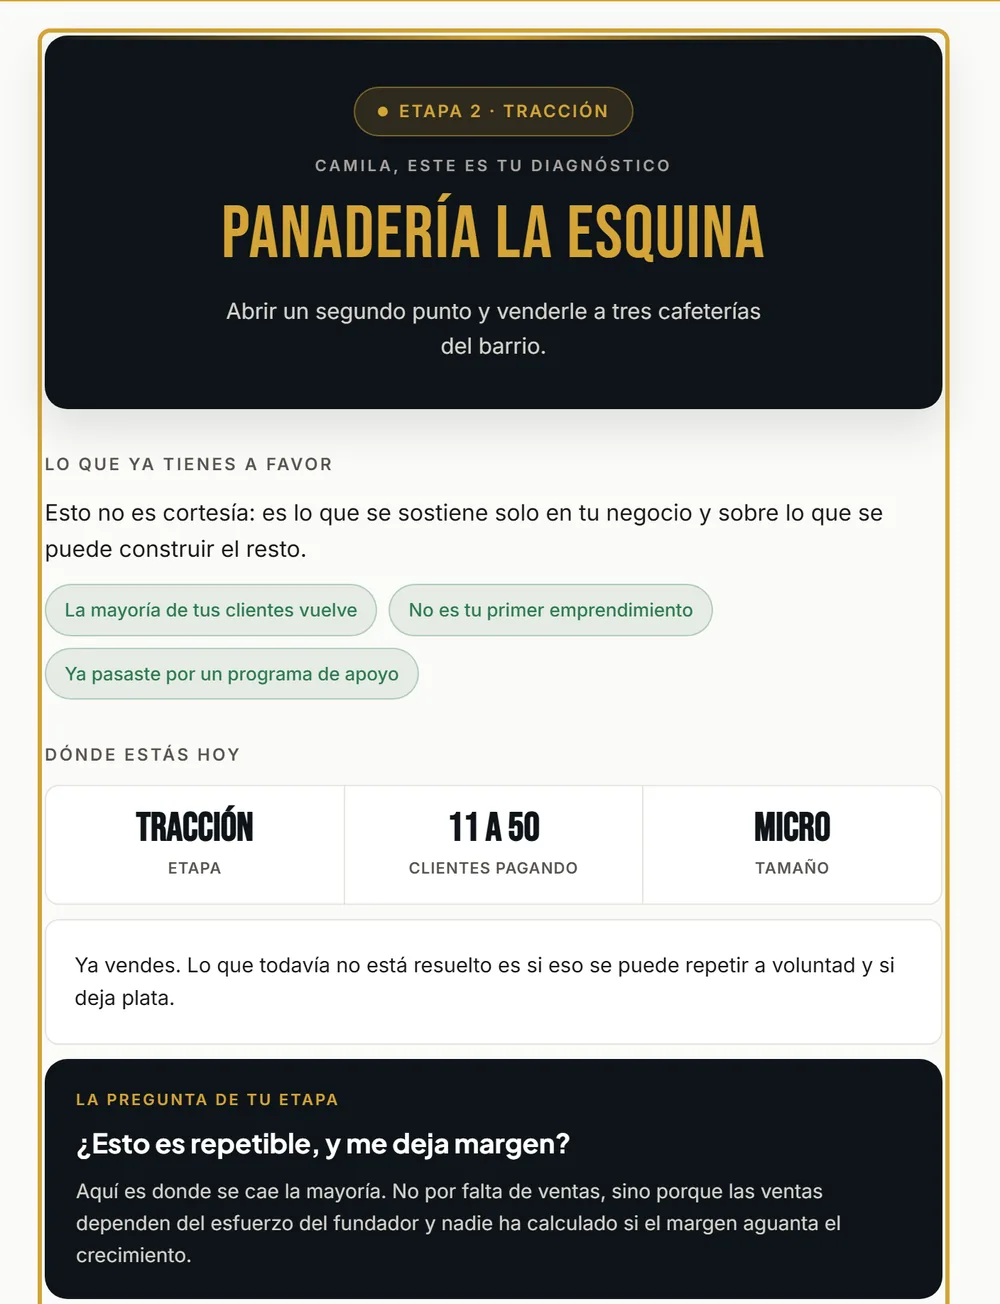
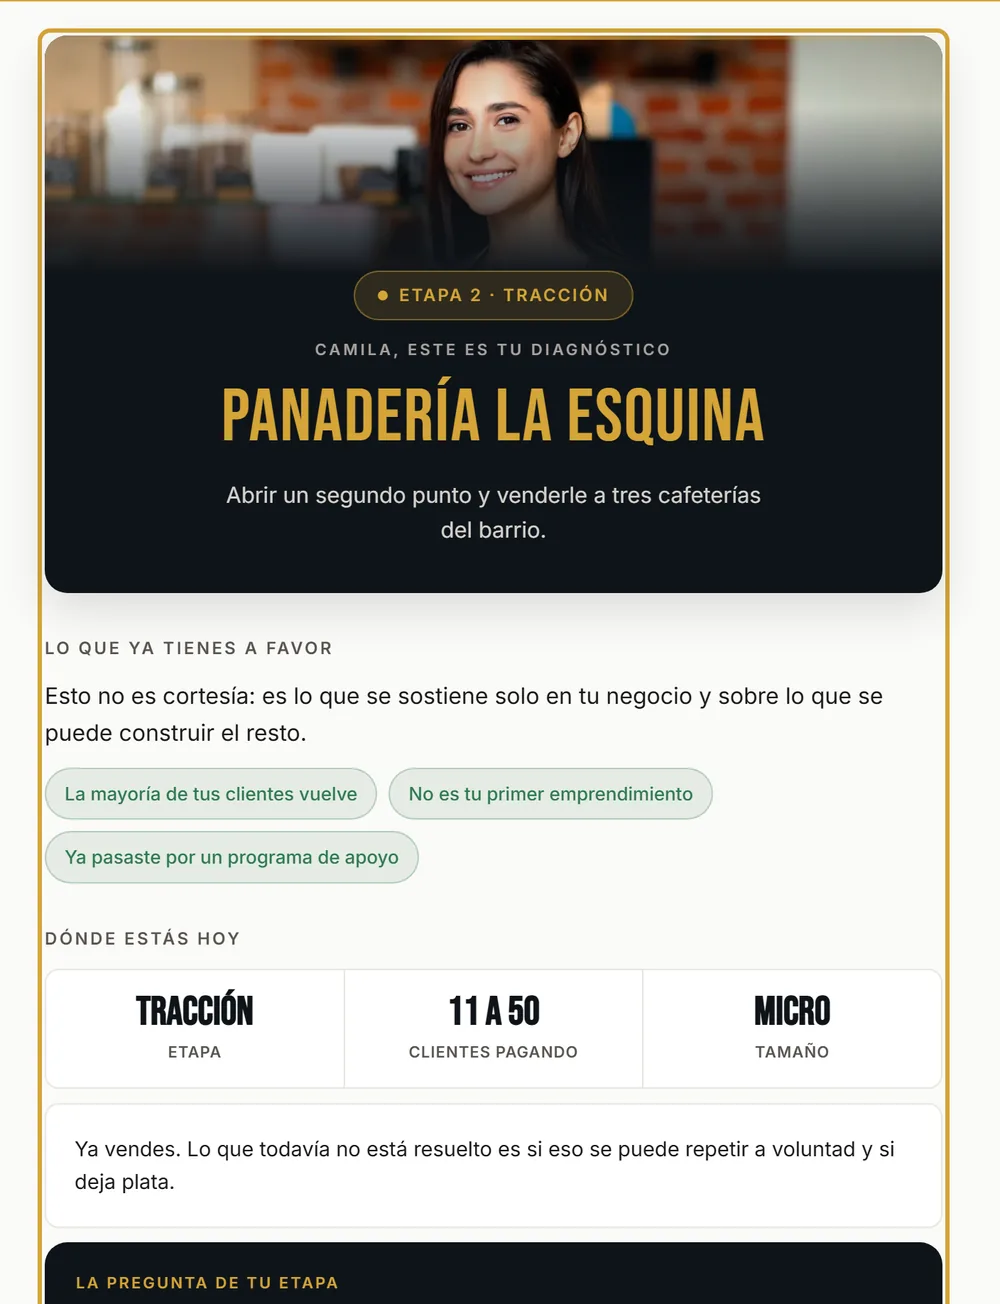
El diagnostico va antes de los dos caminos
Jorge lo reordeno y tiene razon: no se elige camino sin saber de donde se
parte. La seccion abre ahora con el diagnostico y despues ofrece las dos
rutas.

El copy se ajusta al orden nuevo: el diagnostico apunta hacia adelante —«lo
que viene despues no sirve si no sabemos de donde partes»— y el compromiso
arranca reconociendo que la persona ya lo hizo.

De paso, la captura de ejemplo se rehizo. Mostraba el informe sin la franja
de fotografia que se le acaba de poner, asi que prometia una cosa y llegaba
otra.

diff --git a/src/app/(public)/emprendimiento/page.tsx b/src/app/(public)/emprendimiento/page.tsx
@@ -15,8 +15,7 @@ import { pilarDeEje } from '@/lib/strategy';
 /**
  * Emprendimiento tiene página propia, como el torneo, y por eso `[slug]` la
  * excluye de sus rutas. Dejó de caber en la plantilla genérica de los ejes el
- * día que tuvo dos rutas desplegables, un paquete de ocho entregables y el
- * diagnóstico como cierre.
+ * día que tuvo diagnóstico propio, dos rutas y un paquete de ocho entregables.
  *
  * Se quitaron «Servicios y enfoques» y «El proceso», que decían en genérico
  * —mentoría, red, ruta de validación; postular, construir, lanzar— lo que las
@@ -79,8 +78,68 @@ export default function EmprendimientoPage() {
           </div>
         </section>
 
+        {/* EL DIAGNÓSTICO
+            Va primero, antes de las dos rutas: Jorge lo pidió así y tiene
+            razón —no se elige camino sin saber de dónde se parte—. Queda en
+            oscuro a propósito, porque la captura del informe es una imagen
+            clara y sobre crema se perdería; el panel es #141a22, no el casi
+            negro de antes, para que no se caiga a un pozo. */}
+        <section className="grain relative overflow-hidden bg-[#141a22]/80">
+          <div className="relative mx-auto max-w-7xl px-6 py-24 lg:px-8">
+            <div className="grid gap-12 lg:grid-cols-[1fr_0.85fr] lg:items-center">
+              <div>
+                <p className="font-mono text-caption uppercase tracking-[0.3em] text-gold">
+                  {DIAGNOSTICO_BLOQUE.kicker}
+                </p>
+                <h2 className="mt-4 font-serif text-display-lg font-bold leading-[1.05] text-neutral-50">
+                  {DIAGNOSTICO_BLOQUE.pregunta}
+                </h2>
+                <p className="mt-6 max-w-xl text-lg text-neutral-300">
+                  {DIAGNOSTICO_BLOQUE.cuerpo}
+                </p>
+                <p className="mt-5 max-w-xl border-l-2 border-gold/50 pl-5 text-neutral-300">
+                  {DIAGNOSTICO_BLOQUE.entrega}
+                </p>
+                <Link
+                  href={hrefDeEje(DIAGNOSTICO)}
+                  className="group mt-9 inline-flex items-center gap-2 rounded-full bg-gradient-to-r from-amarillo to-naranja px-7 py-3.5 text-sm font-bold text-carbon shadow-[0_12px_40px_rgba(232,114,44,0.4)] transition-all duration-200 ease-managers hover:-translate-y-0.5"
+                >
+                  <span className="text-left">
+                    ¿Tienes un emprendimiento?{' '}
+                    <span className="whitespace-nowrap">Haz el diagnóstico</span>
+                  </span>
+                  <ArrowRight
+                    size={18}
+                    aria-hidden
+                    className="transition-transform duration-200 ease-managers group-hover:translate-x-1"
+                  />
+                </Link>
+              </div>
+
+              {/* Así se ve lo que recibe. Es una captura del diagnóstico real,
+                  con un emprendimiento de ejemplo: prometer con una ilustración
+                  genérica lo que llega como informe sería vender otra cosa. */}
+              <figure className="m-0">
+                <div className="overflow-hidden rounded-2xl border border-gold/25 bg-cream p-3 shadow-[0_28px_70px_rgba(0,0,0,0.45)]">
+                  <Image
+                    src={asset('/fotos/diagnostico-ejemplo.webp')}
+                    alt="Ejemplo del diagnóstico que se entrega: la etapa del emprendimiento, lo que ya tiene a favor, el mapa de madurez por frentes y los retos priorizados."
+                    width={1000}
+                    height={1304}
+                    sizes="(max-width: 1024px) 100vw, 440px"
+                    className="h-auto w-full rounded-xl"
+                  />
+                </div>
+                <figcaption className="mt-4 text-center text-sm text-neutral-500">
+                  Un ejemplo real del informe. El tuyo sale con tus respuestas, al terminar.
+                </figcaption>
+              </figure>
+            </div>
+          </div>
+        </section>
+
         {/* COMPROMISO + LAS DOS RUTAS
-            En crema, no en negro. El sitio es oscuro de punta a punta y esta
+            Después del diagnóstico, no antes. En crema, no en negro. El sitio es oscuro de punta a punta y esta
             sección —que es la que vende— quedaba «como un funeral», en palabras
             de Jorge. El crema ya estaba en el sistema de diseño y en la
             plantilla de presentaciones de la fundación, sin usarse aquí. */}
@@ -155,64 +214,6 @@ export default function EmprendimientoPage() {
                   </article>
                 );
               })}
-            </div>
-          </div>
-        </section>
-
-        {/* EL DIAGNÓSTICO
-            Vuelve al oscuro a propósito: la captura del informe es una imagen
-            clara y sobre crema se perdería. El panel es #141a22, no el casi
-            negro de antes, para que la sección no se caiga a un pozo. */}
-        <section className="grain relative overflow-hidden bg-[#141a22]/80">
-          <div className="relative mx-auto max-w-7xl px-6 py-24 lg:px-8">
-            <div className="grid gap-12 lg:grid-cols-[1fr_0.85fr] lg:items-center">
-              <div>
-                <p className="font-mono text-caption uppercase tracking-[0.3em] text-gold">
-                  {DIAGNOSTICO_BLOQUE.kicker}
-                </p>
-                <h2 className="mt-4 font-serif text-display-lg font-bold leading-[1.05] text-neutral-50">
-                  {DIAGNOSTICO_BLOQUE.pregunta}
-                </h2>
-                <p className="mt-6 max-w-xl text-lg text-neutral-300">
-                  {DIAGNOSTICO_BLOQUE.cuerpo}
-                </p>
-                <p className="mt-5 max-w-xl border-l-2 border-gold/50 pl-5 text-neutral-300">
-                  {DIAGNOSTICO_BLOQUE.entrega}
-                </p>
-                <Link
-                  href={hrefDeEje(DIAGNOSTICO)}
-                  className="group mt-9 inline-flex items-center gap-2 rounded-full bg-gradient-to-r from-amarillo to-naranja px-7 py-3.5 text-sm font-bold text-carbon shadow-[0_12px_40px_rgba(232,114,44,0.4)] transition-all duration-200 ease-managers hover:-translate-y-0.5"
-                >
-                  <span className="text-left">
-                    ¿Tienes un emprendimiento?{' '}
-                    <span className="whitespace-nowrap">Haz el diagnóstico</span>
-                  </span>
-                  <ArrowRight
-                    size={18}
-                    aria-hidden
-                    className="transition-transform duration-200 ease-managers group-hover:translate-x-1"
-                  />
-                </Link>
-              </div>
-
-              {/* Así se ve lo que recibe. Es una captura del diagnóstico real,
-                  con un emprendimiento de ejemplo: prometer con una ilustración
-                  genérica lo que llega como informe sería vender otra cosa. */}
-              <figure className="m-0">
-                <div className="overflow-hidden rounded-2xl border border-gold/25 bg-cream p-3 shadow-[0_28px_70px_rgba(0,0,0,0.45)]">
-                  <Image
-                    src={asset('/fotos/diagnostico-ejemplo.webp')}
-                    alt="Ejemplo del diagnóstico que se entrega: la etapa del emprendimiento, lo que ya tiene a favor, el mapa de madurez por frentes y los retos priorizados."
-                    width={1000}
-                    height={1304}
-                    sizes="(max-width: 1024px) 100vw, 440px"
-                    className="h-auto w-full rounded-xl"
-                  />
-                </div>
-                <figcaption className="mt-4 text-center text-sm text-neutral-500">
-                  Un ejemplo real del informe. El tuyo sale con tus respuestas, al terminar.
-                </figcaption>
-              </figure>
             </div>
           </div>
         </section>

diff --git a/src/lib/emprendimiento.ts b/src/lib/emprendimiento.ts
@@ -2,8 +2,8 @@ import { BadgeCheck, Rocket, type LucideIcon } from 'lucide-react';
 
 /**
  * Contenido de Emprendimiento. Vive aparte de `eje-content.ts` porque la
- * sección dejó de caber en la plantilla genérica de los ejes: tiene dos rutas,
- * un paquete de tres meses con página propia y el diagnóstico como cierre.
+ * sección dejó de caber en la plantilla genérica de los ejes: abre con el
+ * diagnóstico, sigue con dos rutas y una de ellas tiene página propia.
  * Lo dictó Jorge el 13 de septiembre de 2026.
  */
 
@@ -32,7 +32,7 @@ export const COMPROMISO = {
   kicker: 'Nuestro compromiso',
   titulo: 'La fundación no da un taller y se va.',
   cuerpo:
-    'Acompañamos a quien tiene un emprendimiento en dos frentes: lo hacemos visible ante la comunidad y lo llevamos, paso a paso, hasta que factura por primera vez. Estas son las dos rutas por las que se entra.',
+    'Ya sabes en qué punto estás. Desde ahí acompañamos en dos frentes: hacemos visible tu emprendimiento ante la comunidad, y lo llevamos paso a paso hasta que factura por primera vez. Estos son los dos caminos.',
 };
 
 export const RUTAS: readonly Ruta[] = [
@@ -125,10 +125,10 @@ export const ENTREGABLES: readonly Entregable[] = [
 ];
 
 export const DIAGNOSTICO_BLOQUE = {
-  kicker: 'Antes de empezar',
+  kicker: 'Por aquí se empieza',
   pregunta: '¿Por qué hacer el diagnóstico?',
   cuerpo:
-    'Porque ninguna de las dos rutas sirve si no sabemos de dónde partes. En veinticinco minutos reconocemos en qué estado real está tu emprendimiento y te entregamos ahí mismo —sin esperar y sin reunión— un diagnóstico escrito para ti.',
+    'Porque lo que viene después —los dos caminos por los que se entra a la fundación— no sirve de nada si no sabemos de dónde partes. En veinticinco minutos reconocemos en qué estado real está tu emprendimiento y te entregamos ahí mismo, sin esperar y sin reunión, un diagnóstico escrito para ti.',
   entrega:
     'En qué etapa estás, qué tienes ya a favor, cuáles son tus tres retos y qué hacer en los próximos 8 días.',
 };
